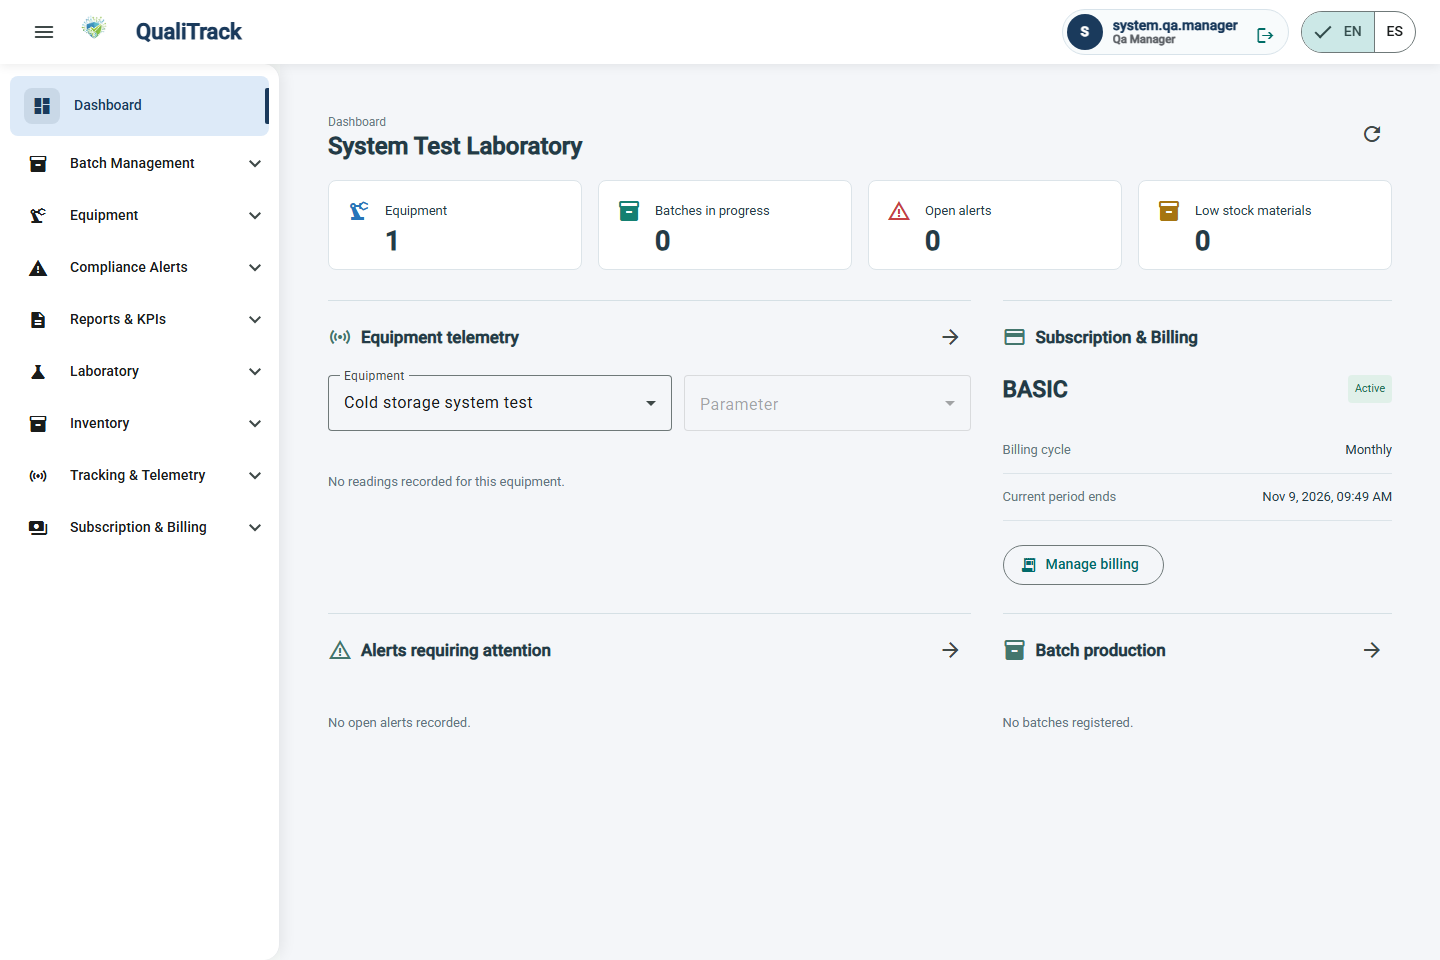
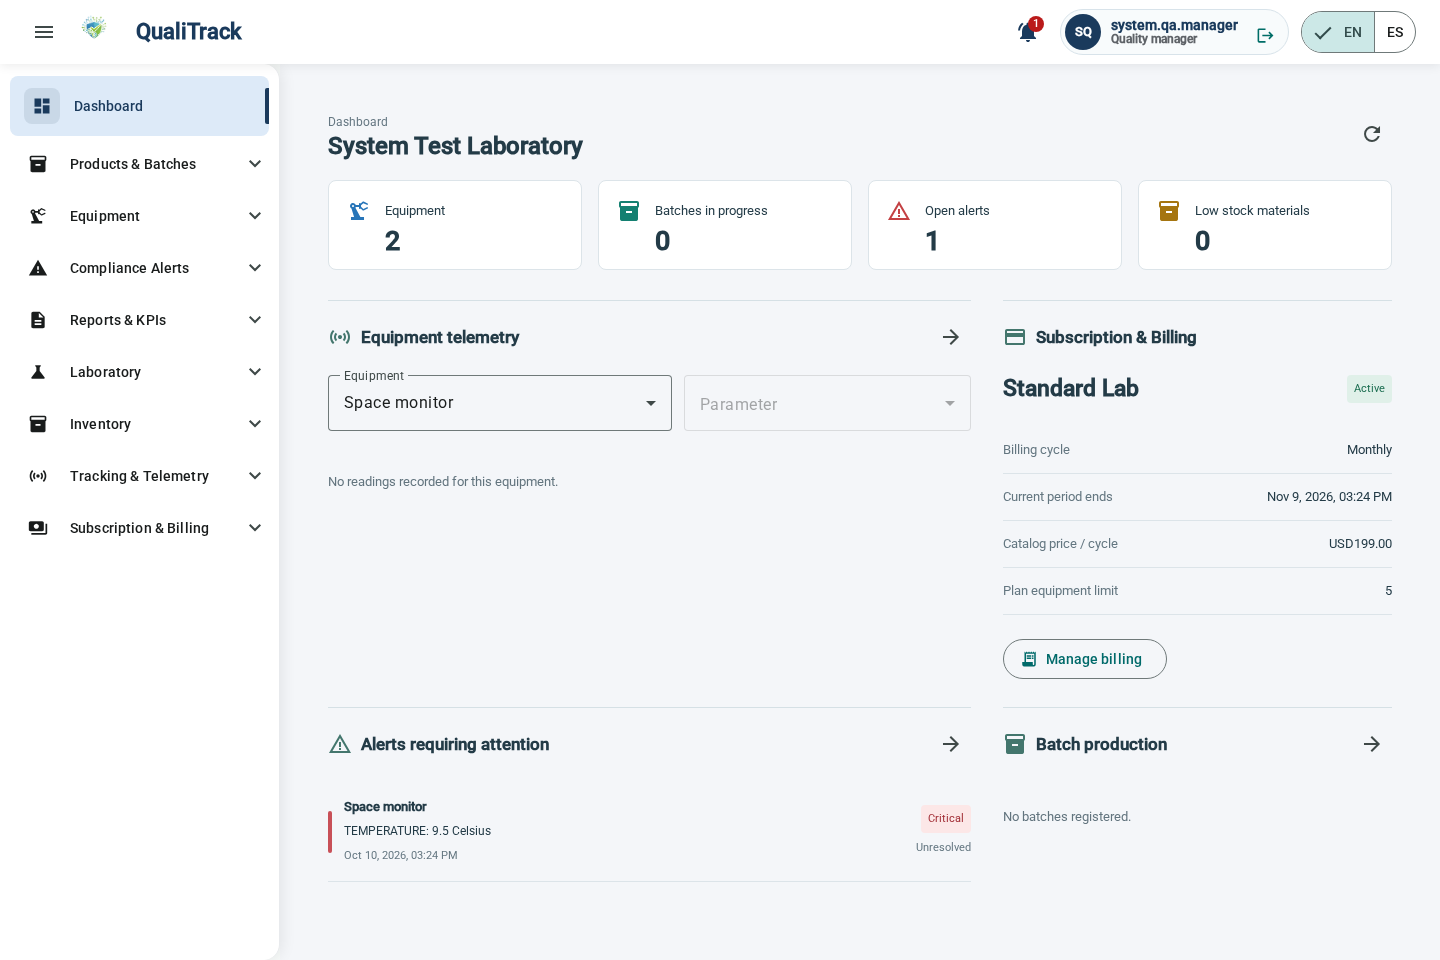
docs(testing): update the system tests flow and evidence to the current application

diff --git a/report/main-content/6.1-testing-suites-&-validation.md b/report/main-content/6.1-testing-suites-&-validation.md
@@ -225,8 +225,8 @@ ubicado en las fuentes de prueba que usa la base de datos H2 en memoria. El úni
 puede ejecutarse localmente es el pago con Stripe, por lo que el lanzador registra un responsable de calidad
 con una suscripción ya pagada; todos los demás pasos (inicio de sesión, creación del laboratorio, registro
 del equipo y resolución de la alerta) se realizan a través de la interfaz y del API. Para simular la lectura
-de un sensor IoT, la prueba registra la desviación directamente en el API, del mismo modo que lo haría el
-dispositivo.
+de un sensor IoT, la prueba crea un ambiente, registra y asocia su dispositivo ambiental y reporta la desviación
+directamente en el API del ambiente, del mismo modo que lo haría el dispositivo.
 </p>
 
 <p>
@@ -238,7 +238,7 @@ Qualitrack-WebApplication).
 |---|---|---|
 | Las páginas protegidas redirigen al visitante anónimo | Acceso sin sesión a `/dashboard`, `/equipments/equipment-list` y `/alerts/alert-dashboard`. | El sistema redirige siempre a `/iam/sign-in`. |
 | Las credenciales inválidas son rechazadas | Inicio de sesión con una contraseña incorrecta. | El usuario permanece en la pantalla de inicio de sesión y no se guarda ningún token. |
-| Recorrido completo del responsable de calidad | Inicio de sesión → creación del laboratorio (onboarding) → dashboard → registro de un equipo → la desviación del sensor llega al API → detalle de la alerta → resolución con notas. | El equipo aparece en el catálogo; el botón de resolver exige notas de al menos 10 caracteres; la alerta queda `RESOLVED` en el backend con las notas y el usuario que la resolvió. |
+| Recorrido completo del responsable de calidad | Inicio de sesión → creación del laboratorio (onboarding) → dashboard → registro de un equipo (se abre su detalle) → el dispositivo ambiental del ambiente reporta la desviación al API → detalle de la alerta → resolución con notas. | El equipo aparece en el catálogo; enviar la resolución sin notas o con menos de 10 caracteres no cierra la alerta; la alerta queda `RESOLVED` en el backend con las notas y el usuario que la resolvió. |
 
 <p>
 Evidencias capturadas automáticamente durante la ejecución:
